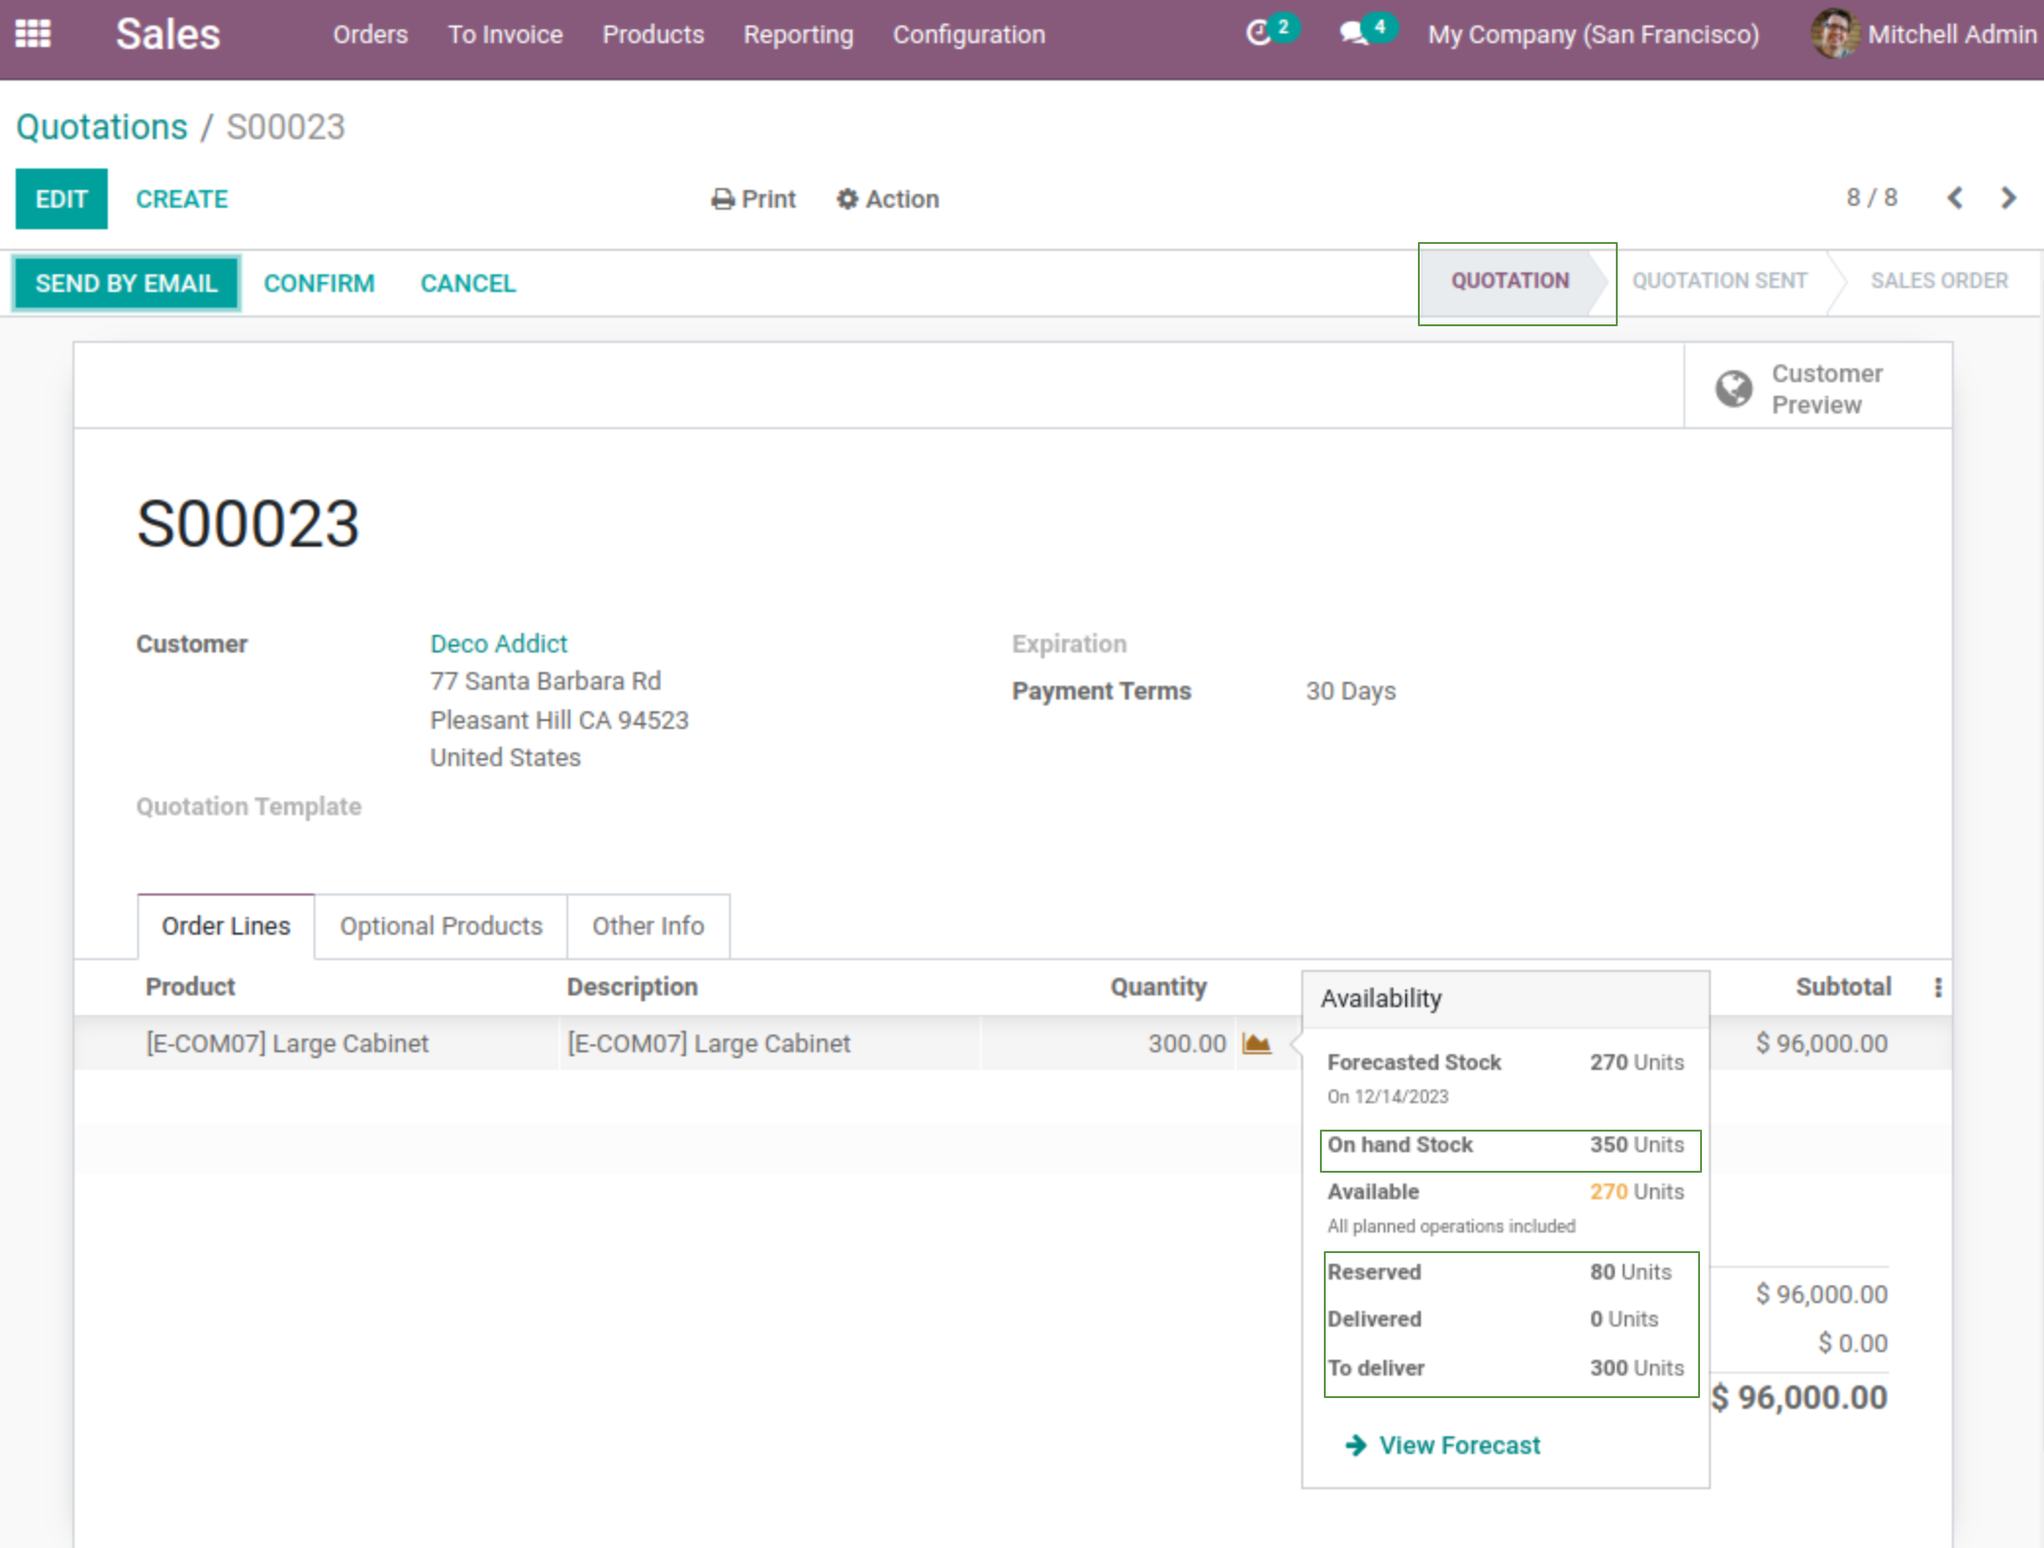
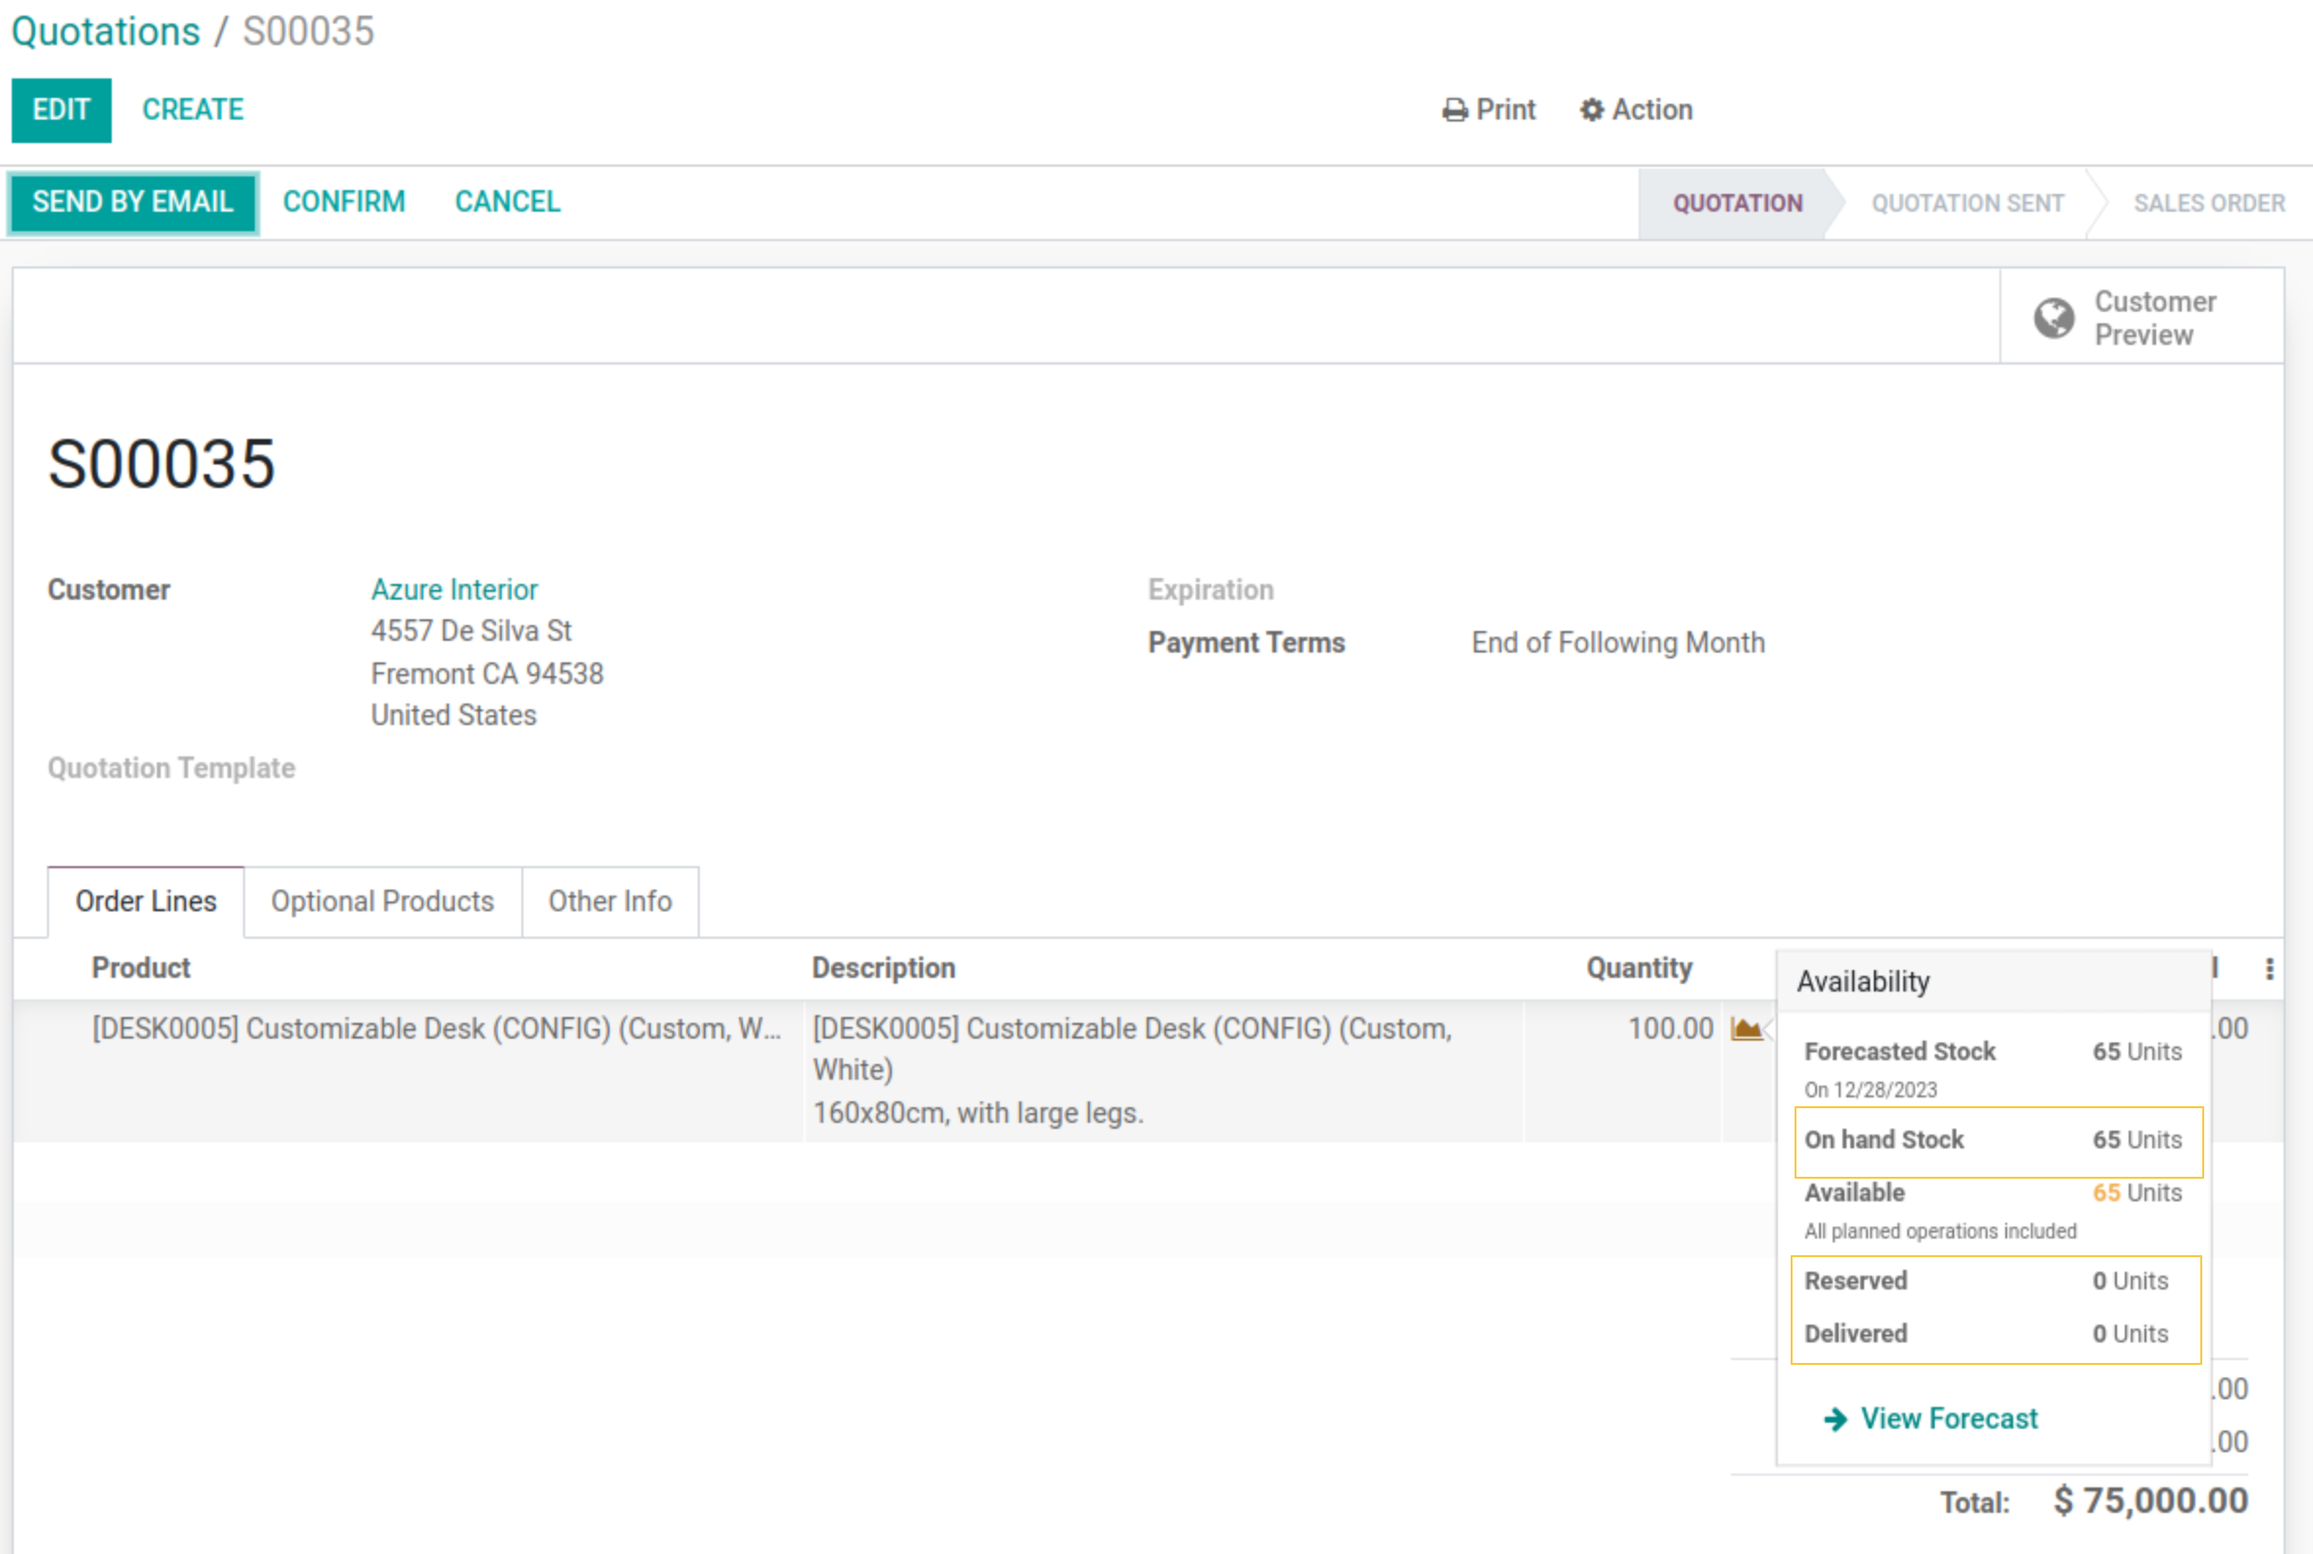
TA#59585 [ADD] sale_stock_availability_popover

diff --git a/sale_stock_availability_popover/README.rst b/sale_stock_availability_popover/README.rst
@@ -2,54 +2,56 @@
 Sale Stock Availability Popover
 ===============================
 
-This module extends the functionality of the 'sale_stock' module. 
-It changes the widget "QtyDetailPopOver" behavior to provide more detailed information about stock.
+This module extends the functionality of the 'sale_stock' module, modifying the behavior of the "QtyDetailPopOver" widget to provide more detailed information about stock.
 
-**Table of contents**
-
-.. contents::
-   :local:
+Table of Contents
+-----------------
+- :ref:`Context`
+- :ref:`Description`
+- :ref:`Usage`
+- :ref:`Contributors`
+- :ref:`More Information`
 
 Context
 -------
 
-When I create a Sale Order, the widget "QtyDetailPopOver" indicates the `Forecasted stock` and `Available Stock` in statuses `Quotation` and `Quotation Sent`. 
-When I confirm the Sale Order, the widget shows the `Reserved` stock of the current sale order. 
-When I confirm the delivery order, the widget "QtyDetailPopOver" disappears. 
-We would like to show the widget in all sale order statuses with all information stock.
+When creating a Sale Order, the "QtyDetailPopOver" widget indicates the `Forecasted stock` and `Available Stock` in statuses `Quotation` and `Quotation Sent`. 
+Upon confirming the Sale Order, the widget displays the `Reserved` stock of the current sale order. Once the delivery order is confirmed, the widget disappears. 
+The goal is to show the widget in all sale order statuses with comprehensive stock information.
 
-I also noticed that the color of the chart icon is green if the available quantity is greater than the quantity requested or red if the quantity requested is greater than the available quantity. 
-There is no option to indicate that the requested quantity is partially available.
+Additionally, the color of the chart icon is green when the available quantity is greater than the quantity requested, red when the quantity requested is greater, but there's no indication for partially available quantities.
 
 Description
 ------------
 
-The module adds a yellow color to the chart icon to indicate that the requested quantity is partially available. 
-It displays the "QtyDetailPopOver" widget in all sale order statuses. 
-It adds `On Hand Stock`, `Delivered`, and `To deliver` information in the "QtyDetailPopOver" widget. 
-It shows the reserved quantity of all stock operations instead of the reserved quantity of the current sale order.
-It displays the widget in the right of the icon chart.
+This module introduces a yellow color to the chart icon, indicating a partially available requested quantity. 
+It ensures the display of the "QtyDetailPopOver" widget in all sale order statuses, adding information on `On Hand Stock` and `Delivered` quantities. 
+The widget now shows the reserved quantity of all stock operations instead of just the current sale order, and it is positioned to the right of the chart icon.
 
 Usage
 -----
 
-As a user with access to the `Sale` App, I create a new sale order:
-I can see in this example that the requested quantity is partially available, and the chart icon is turned yellow.
+As a user with access to the `Sale` App, create a new sale order:
 
 .. image:: static/description/qty_partially_available_in_yellow.png
+   :alt: Qty Partially Available
 
-I can also see information about `On Hand Stock`, `Delivered`, and `To deliver` quantities in the widget popover.
+View detailed information about `On Hand Stock` and `Delivered` quantities in the widget popover:
 
 .. image:: static/description/qty_detailed_popover_info.png
+   :alt: Qty Detailed Popover Info
 
-I confirm my Order, and I notice that the widget "QtyDetailPopOver" still shows all stock availability information.
+After confirming the order, the "QtyDetailPopOver" widget continues to display all stock availability information:
 
 .. image:: static/description/qty_detailed_popover_sale_order.png
+   :alt: Qty Detailed Popover Sale Order
 
 Contributors
 ------------
-* Numigi (tm) and all its contributors (https://bit.ly/numigiens)
 
-More information
+- Numigi (tm) and all its contributors :numigi:`Numigi Contributors <https://bit.ly/numigiens>`
+
+More Information
 ----------------
-* Meet us at https://bit.ly/numigi-com
+
+Visit us at :numigi:`Numigi <https://bit.ly/numigi-com>`
